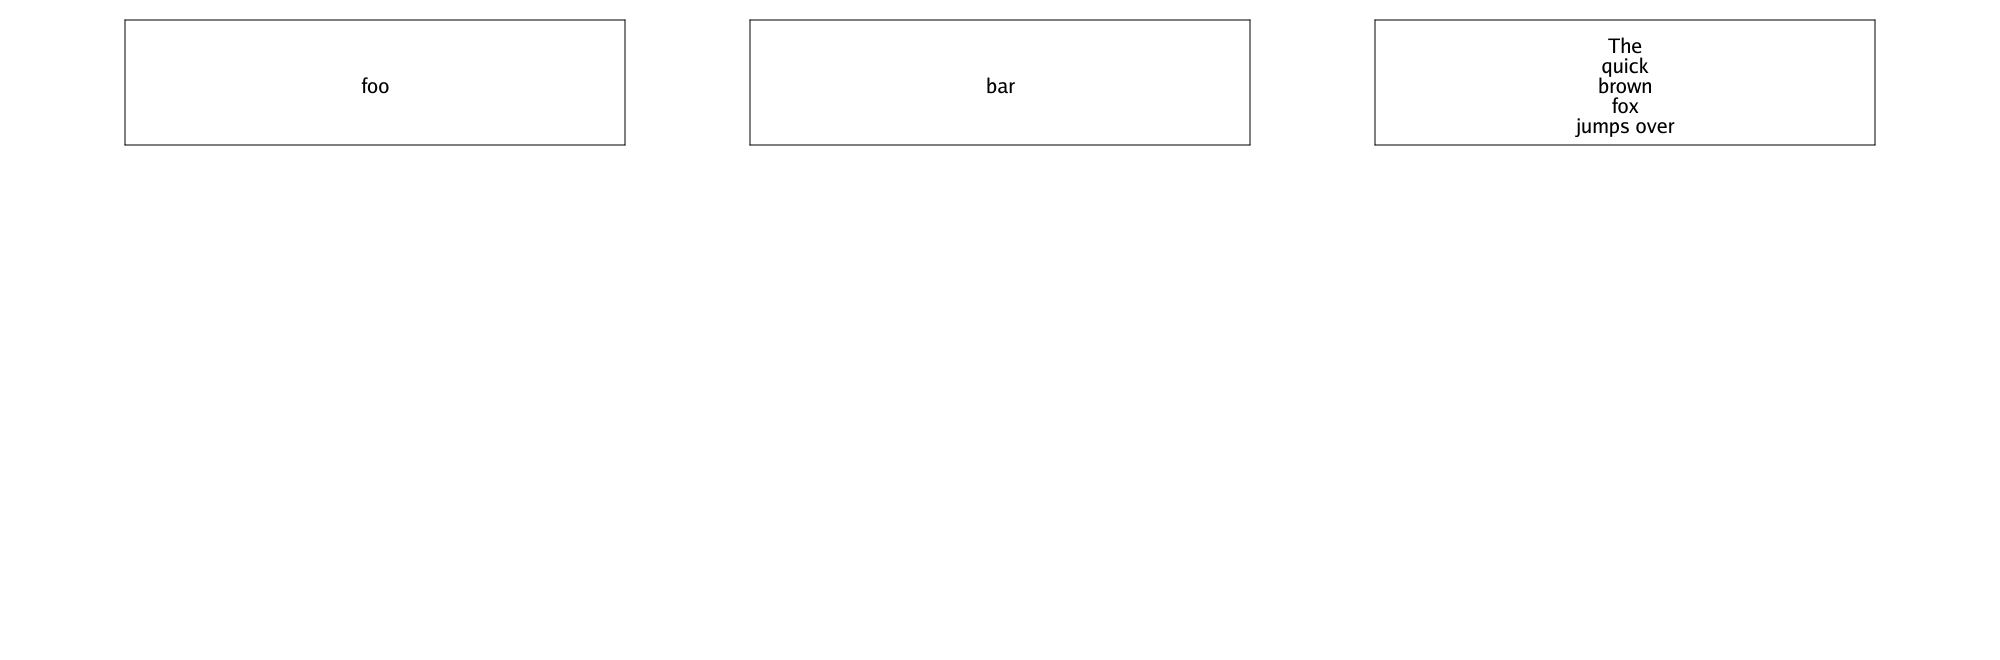
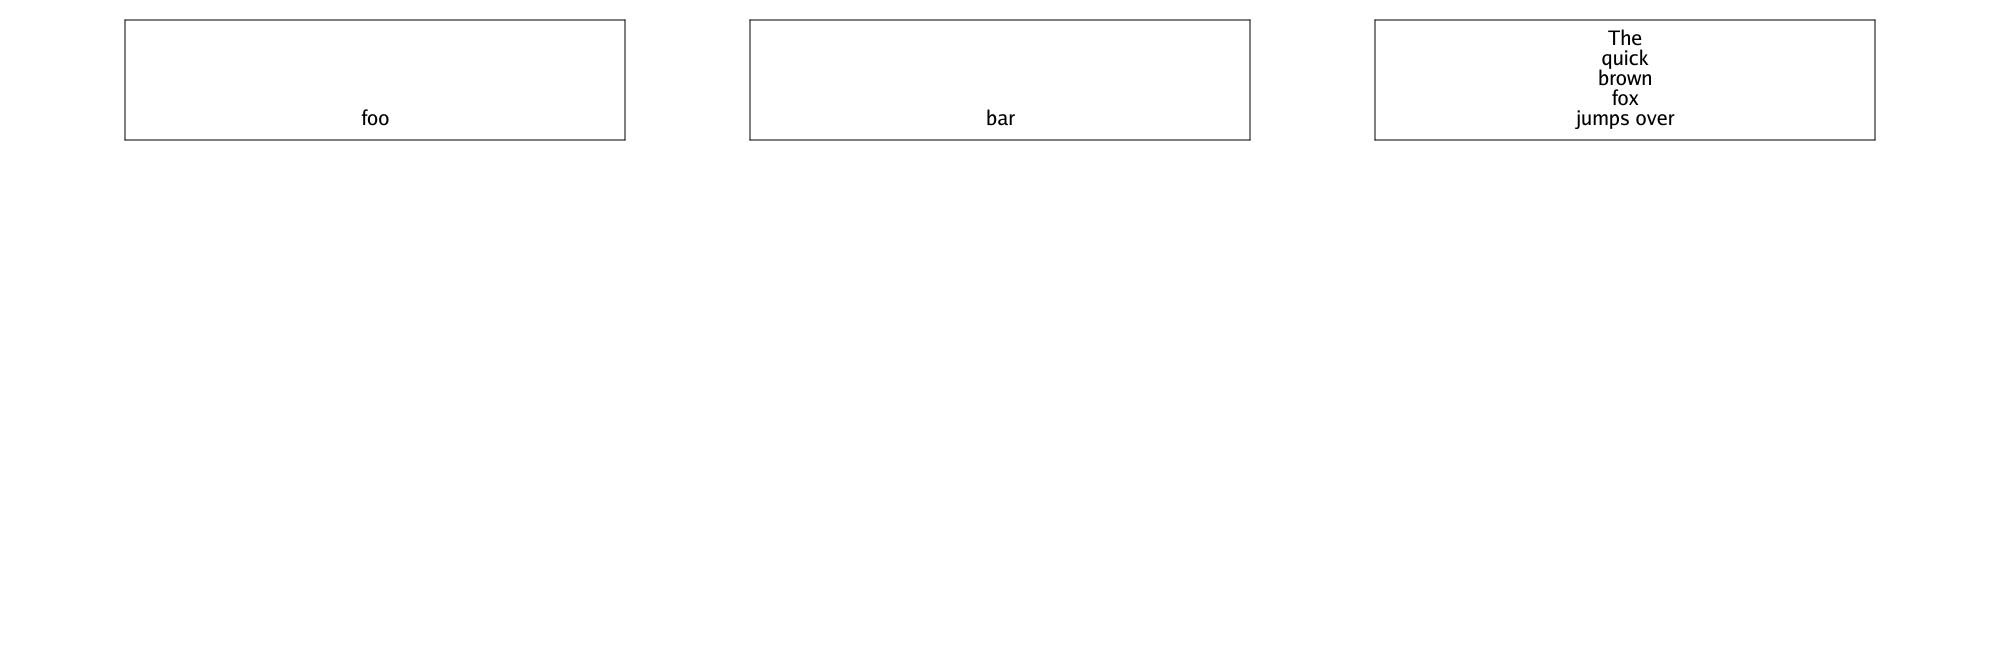
Fix title box label positioning bug

diff --git a/sizers/lanes.go b/sizers/lanes.go
@@ -7,16 +7,17 @@ import (
 
 // Lanes holds sizing information for the lanes.
 type Lanes struct {
-	DiagramWidth       float64
-	FontHeight         float64
-	LaneStatements     []*dslmodel.Statement
-	NumLanes           int
-	TitleBoxWidth      float64
-	TitleBoxPitch      float64
-	TitleBoxHeight     float64
-	TitleBoxHorizGap   float64
-	TitleBoxLeftMargin float64
-	Individual         InfoPerLane
+	DiagramWidth            float64
+	FontHeight              float64
+	LaneStatements          []*dslmodel.Statement
+	NumLanes                int
+	TitleBoxWidth           float64
+	TitleBoxPitch           float64
+	TitleBoxHeight          float64
+	TitleBoxBottomRowOfText float64 // Below top of title box.
+	TitleBoxHorizGap        float64
+	TitleBoxLeftMargin      float64
+	Individual              InfoPerLane
 }
 
 // InfoPerLane provides information about individual lanes, keyed on
@@ -28,7 +29,6 @@ type LaneInfo struct {
 	TitleBoxLeft  float64
 	Centre        float64
 	TitleBoxRight float64
-	TitleBoxFirstRowOfText float64 // below top of title box
 }
 
 // NewLanes provides a Lanes structure that has been initialised
@@ -50,6 +50,8 @@ func NewLanes(diagramWidth int, fontHeight float64,
 func (lanes *Lanes) populateTitleBoxAttribs() {
 	// The title boxes are all the same width and height.
 	lanes.TitleBoxHeight = lanes.titleBoxHeight()
+	lanes.TitleBoxBottomRowOfText = lanes.TitleBoxHeight -
+		titleBoxTextBotMarginK*lanes.FontHeight
 	// The horizontal gaps between them are a fixed proportion of their width.
 	// The margins from the edge of the diagram is the same as this gap.
 	n := float64(lanes.NumLanes)
@@ -88,14 +90,7 @@ func (lanes *Lanes) populateIndividualLaneInfo() {
 			float64((laneNumber))*lanes.TitleBoxPitch
 		left := centre - 0.5*lanes.TitleBoxWidth
 		right := centre + 0.5*lanes.TitleBoxWidth
-		// How far down to start first row of label text?
-		// Centre them vertically between their margins.
-		avail := lanes.TitleBoxHeight - 
-			lanes.FontHeight * (titleBoxTextBotMarginK + titleBoxTextBotMarginK)
-		occupy := float64(len(statement.LabelSegments)) * lanes.FontHeight
-		spare := 0.5 * (avail - occupy)
-		firstRowOfText := lanes.FontHeight * titleBoxTextBotMarginK + spare
-		laneInfo := &LaneInfo{left, centre, right, firstRowOfText}
+		laneInfo := &LaneInfo{left, centre, right}
 		lanes.Individual[statement] = laneInfo
 	}
 }

diff --git a/diag/creator.go b/diag/creator.go
@@ -90,9 +90,11 @@ func (c *Creator) laneTitleBox(
 	prims.AddRect(left, top, right, bot)
 	tideMark = bot
 	// Now the strings
+	nRows := len(statement.LabelSegments)
 	for i, str := range statement.LabelSegments {
-		prims.AddLabel(str, c.fontHeight, thisLane.Centre,
-			top+thisLane.TitleBoxFirstRowOfText+float64(i+1)*c.fontHeight,
+		rowOffset := float64(nRows-1-i) * c.fontHeight
+		y := top + c.sizer.Lanes.TitleBoxBottomRowOfText - rowOffset
+		prims.AddLabel(str, c.fontHeight, thisLane.Centre, y,
 			graphics.Centre, graphics.Bottom)
 	}
 	return prims, tideMark

diff --git a/sizers/settings.go b/sizers/settings.go
@@ -11,6 +11,7 @@ const diagramTopMarginK = 1.0
 // these settings.
 const (
 	titleBoxSeparationK    = 0.25 // w.r.t title box width
-	titleBoxTextTopMarginK = 0.5  // Between top of title box and first line txt
+	titleBoxTextTopMarginK = 0.25 // Between top of title box and first line txt
 	titleBoxTextBotMarginK = 0.75 // Between bot title box and last line txt
+
 )
